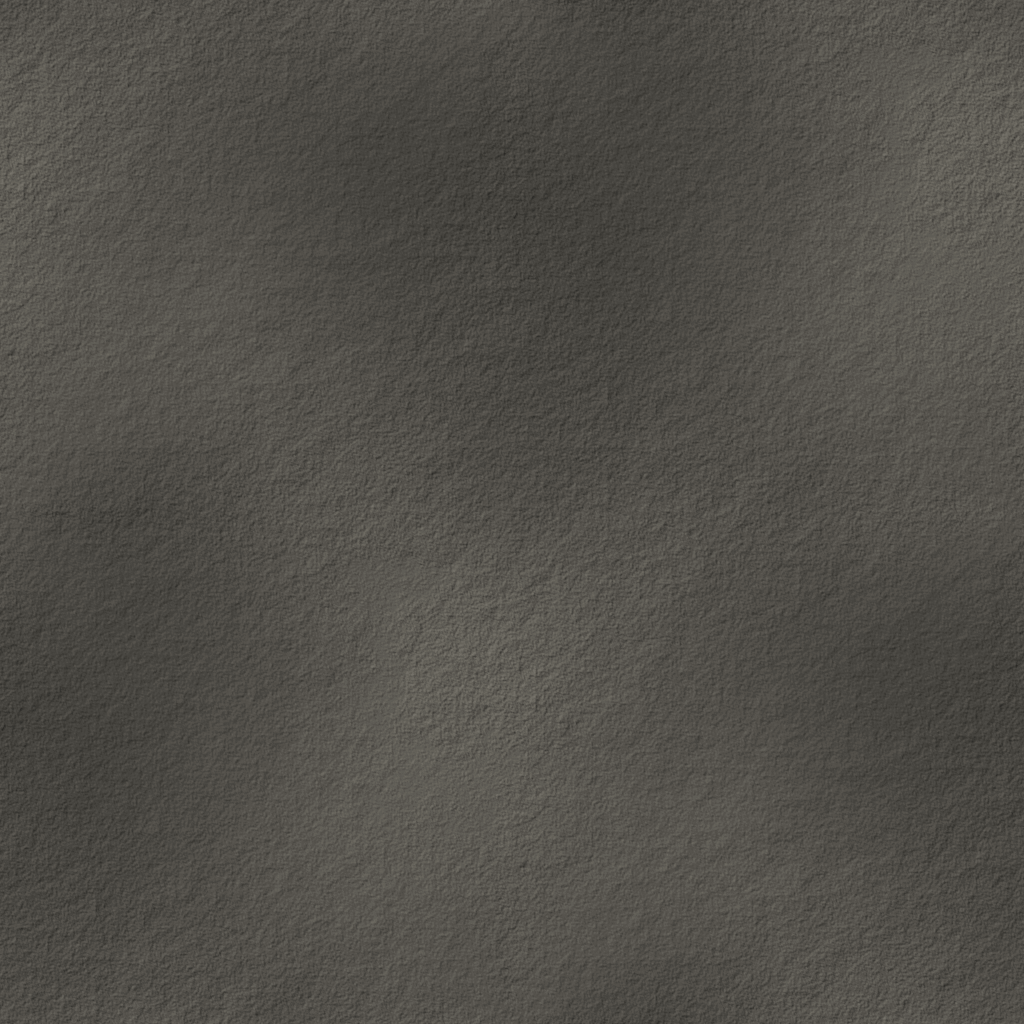
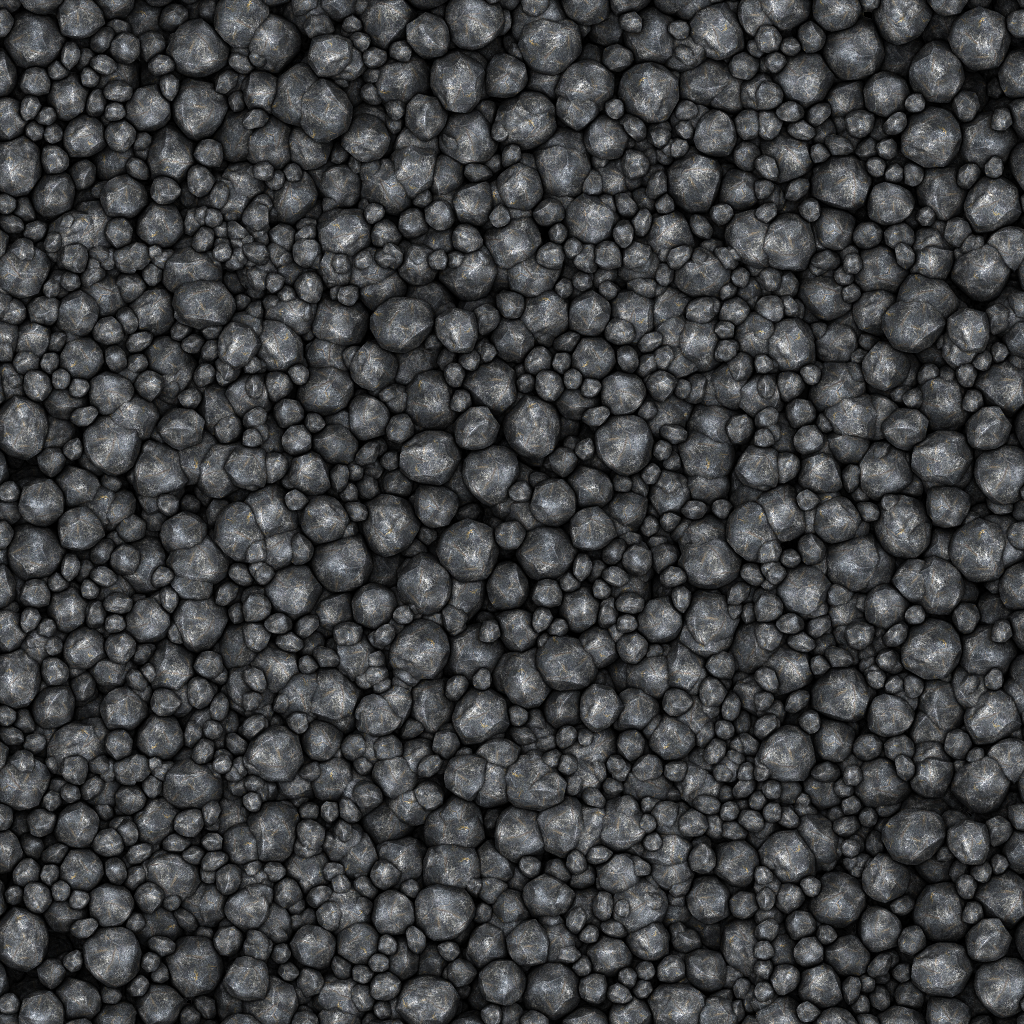
Graphics changes

diff --git a/CREDITS.md b/CREDITS.md
@@ -2,3 +2,4 @@ Graphics
 ========
 
 Worker: https://openclipart.org/detail/170888/orc-warrior by tzunghaor
+Background: https://github.com/The-Yak/NobiaxTexturePack by nobiax
